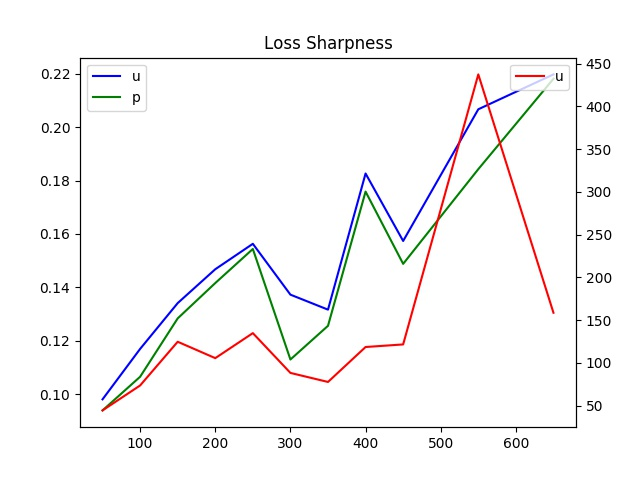
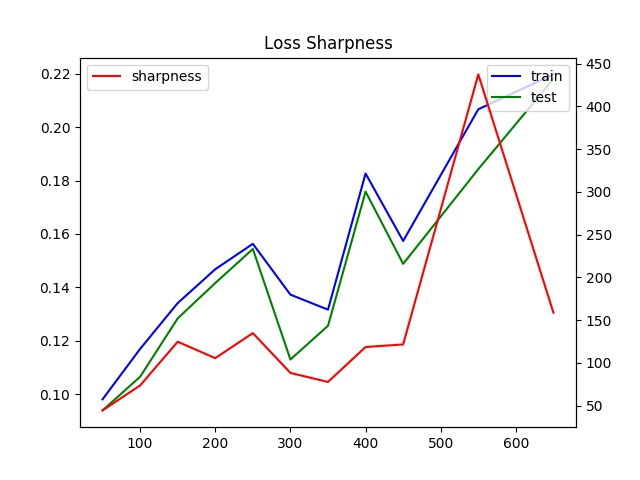
dkjf

Changed region(s): [[0.125, 0.125, 0.3125, 0.2188], [0.75, 0.125, 0.875, 0.25]]

diff --git a/hw1/1-3/1-3-3-2/plot.py b/hw1/1-3/1-3-3-2/plot.py
@@ -29,8 +29,8 @@ ax1.plot(dm.data['train'][:,0],dm.data['train'][:,1],c='b',label='train')
 ax1.plot(dm.data['test'][:,0],dm.data['test'][:,1],c='g',label='test')
 ax2.plot(dm.data['train'][:,0],dm.data['train'][:,3],c='r',label='sensitivity')
 plt.title('Loss Sensitivity')
-ax1.legend('upper right')
-ax2.legend('upper left')
+ax1.legend(loc='upper right')
+ax2.legend(loc='upper left')
 plt.savefig(args.selo)
 ############################################################
 #               plot accu                                  #
@@ -41,8 +41,8 @@ ax1.plot(dm.data['train'][:,0],dm.data['train'][:,2],c='b',label='train')
 ax1.plot(dm.data['test'][:,0],dm.data['test'][:,2],c='g',label='test')
 ax2.plot(dm.data['train'][:,0],dm.data['train'][:,3],c='r',label='sensitivity')
 plt.title('Accu Sensitivity')
-ax1.legend('upper right')
-ax2.legend('upper left')
+ax1.legend(loc='upper right')
+ax2.legend(loc='upper left')
 plt.savefig(args.seao)
 ############################################################
 #               plot loss                                  #
@@ -53,8 +53,8 @@ ax1.plot(dm.data['train'][:,0],dm.data['train'][:,1],c='b',label='train')
 ax1.plot(dm.data['test'][:,0],dm.data['test'][:,1],c='g',label='test')
 ax2.plot(dm.data['train'][:,0],dm.data['train'][:,4],c='r',label='sharpness')
 plt.title('Loss Sharpness')
-ax1.legend('upper right')
-ax2.legend('upper left')
+ax1.legend(loc='upper right')
+ax2.legend(loc='upper left')
 plt.savefig(args.shlo)
 ############################################################
 #               plot accu                                  #
@@ -65,6 +65,6 @@ ax1.plot(dm.data['train'][:,0],dm.data['train'][:,2],c='b',label='train')
 ax1.plot(dm.data['test'][:,0],dm.data['test'][:,2],c='g',label='test')
 ax2.plot(dm.data['train'][:,0],dm.data['train'][:,4],c='r',label='sharpness')
 plt.title('Accu Sharpness')
-ax1.legend('upper right')
-ax2.legend('upper left')
+ax1.legend(loc='upper right')
+ax2.legend(loc='upper left')
 plt.savefig(args.shao)
